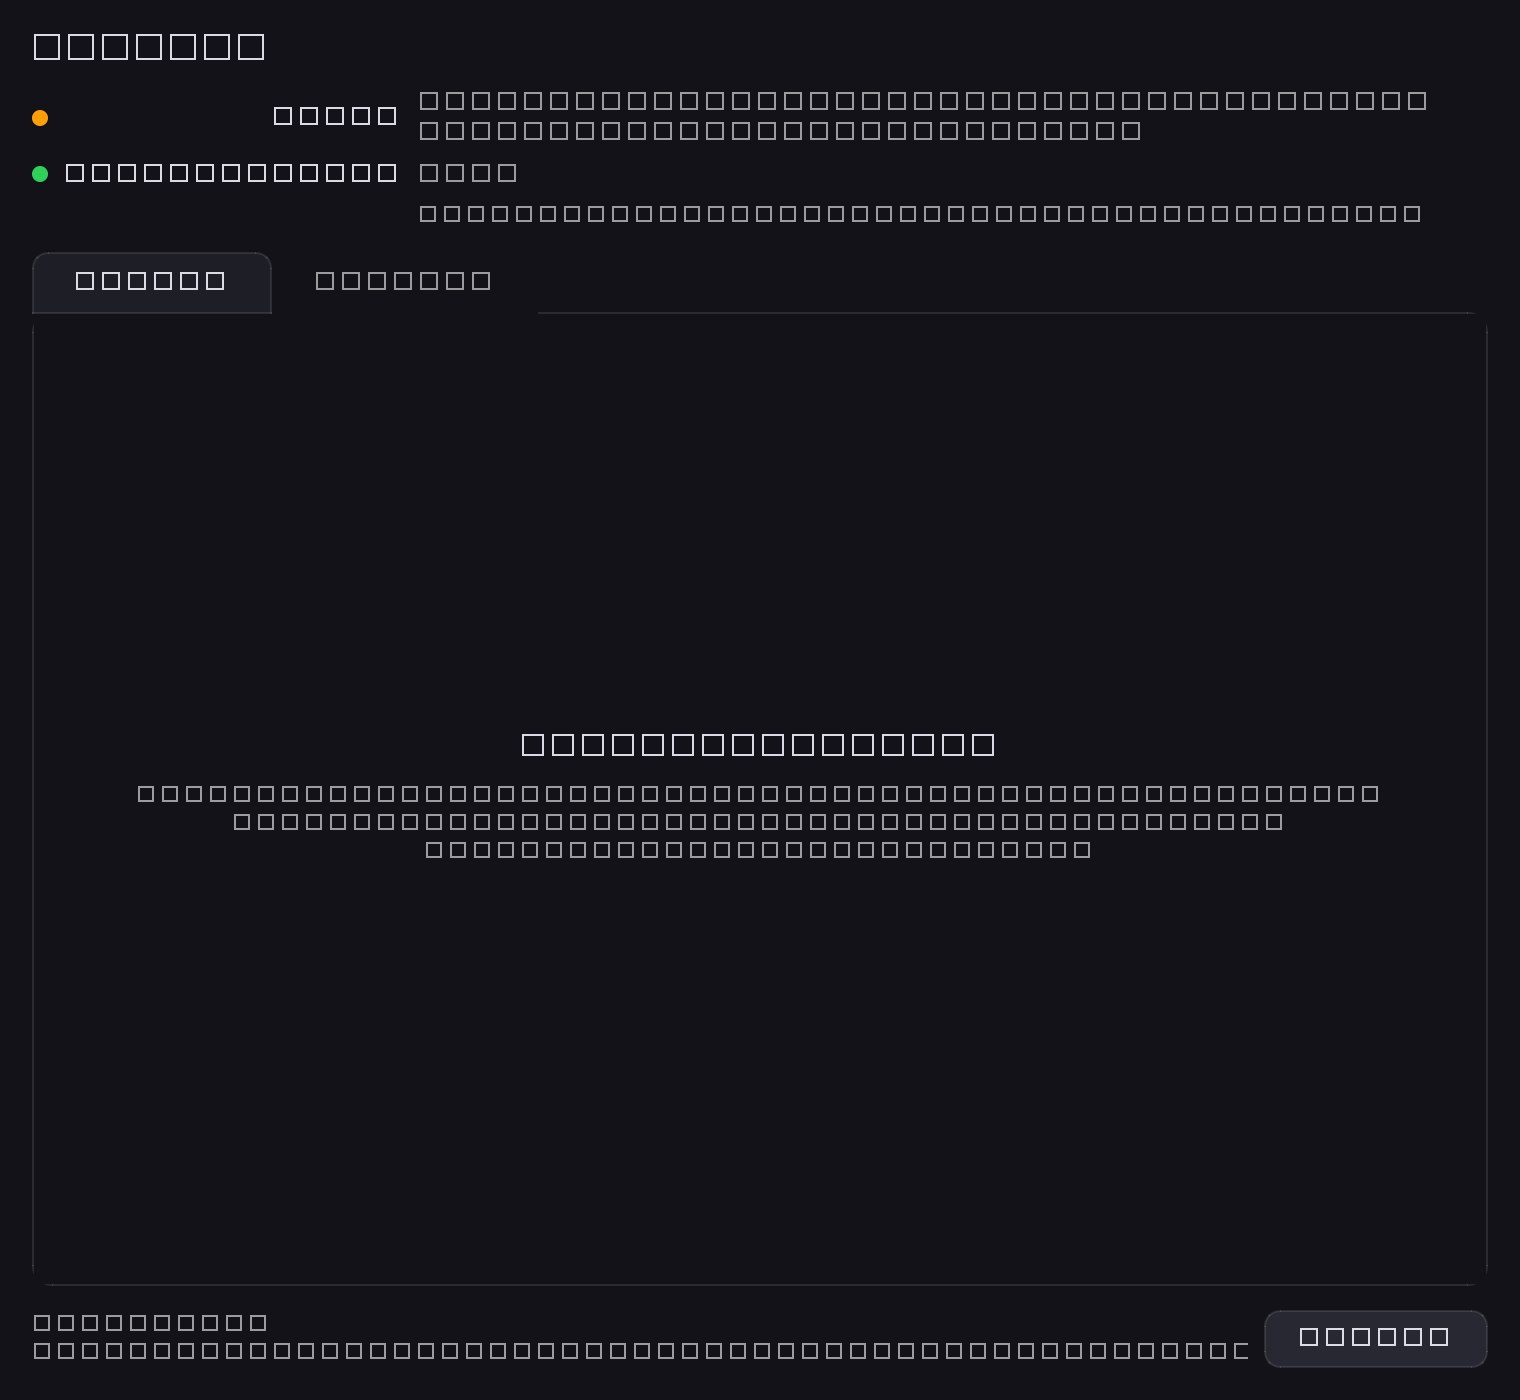
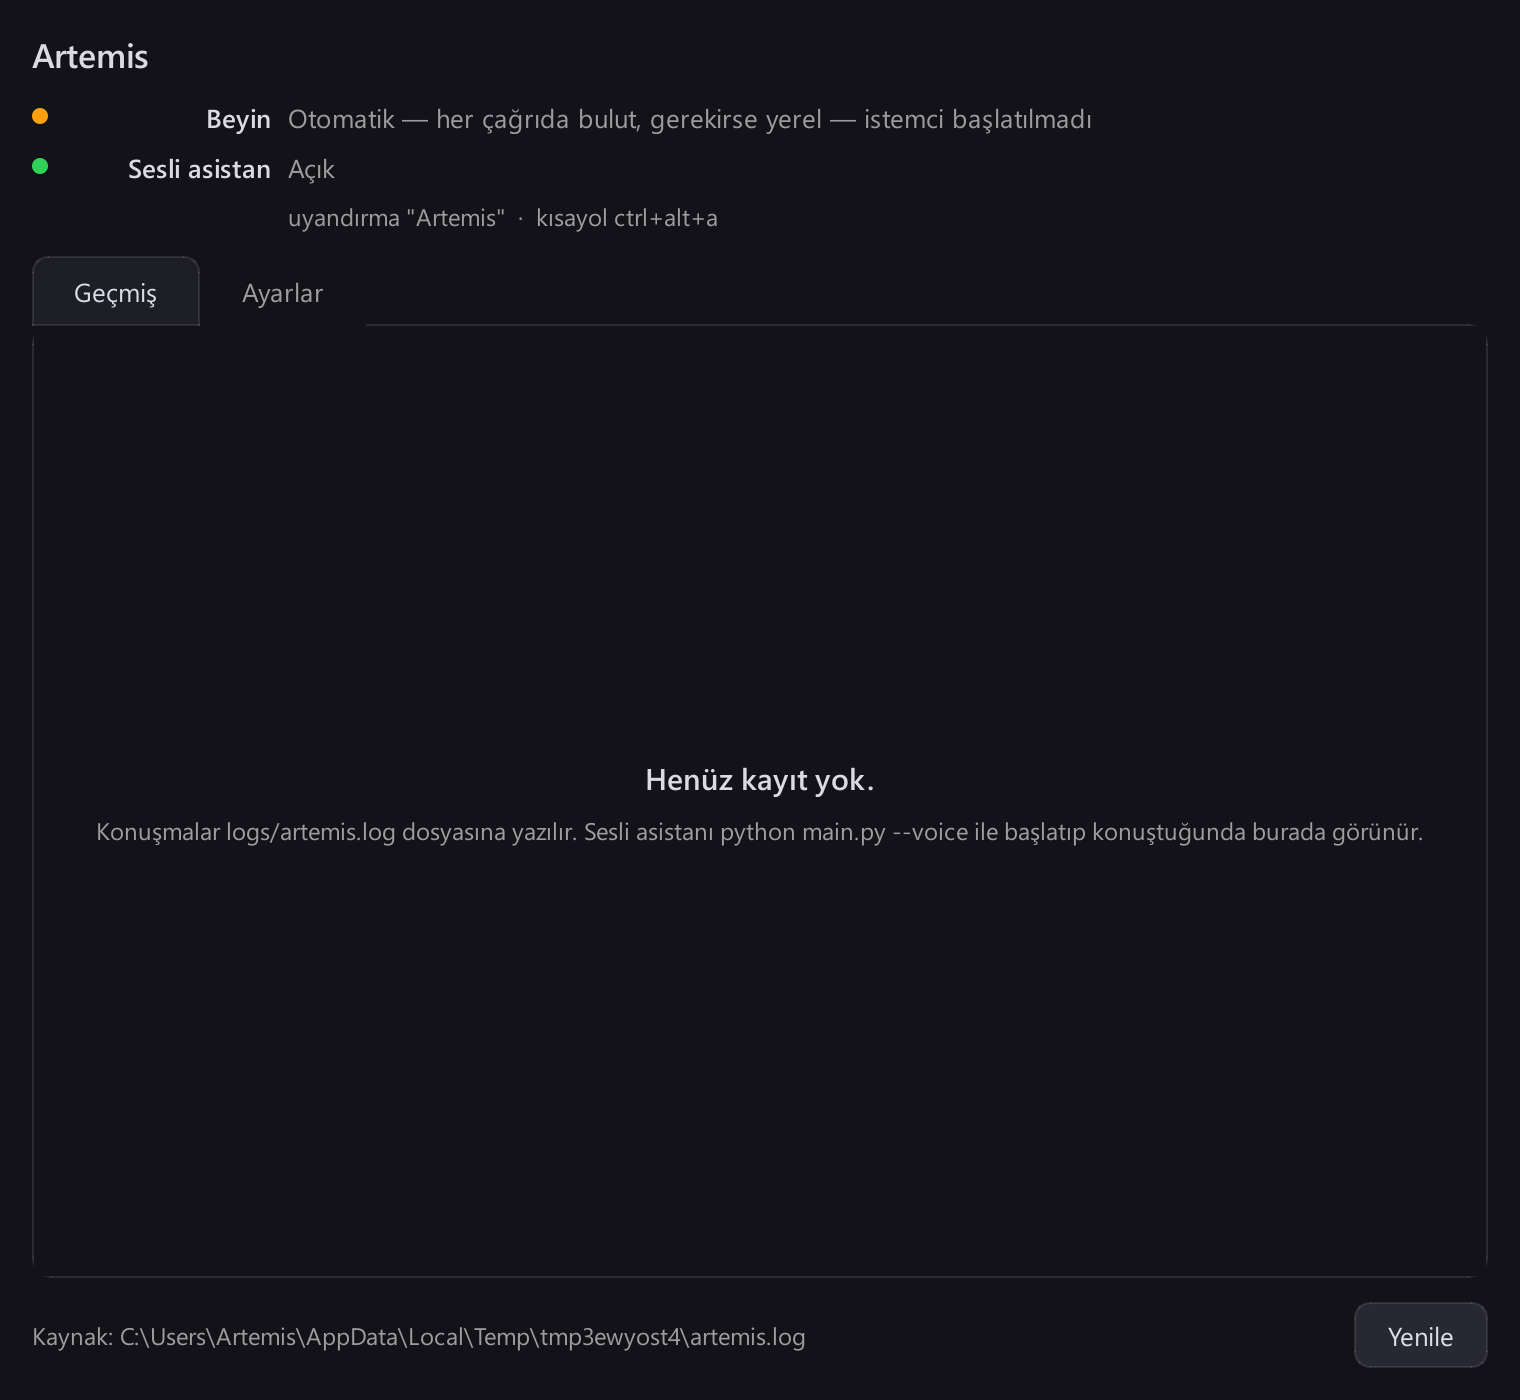
Panel ekran görüntüleri: offscreen'de fontlar bulunamıyordu, yazı yerine kutucuk çıkıyordu
QT_QPA_FONTDIR ayarlandı, üç görsel yeniden üretildi.

diff --git a/scripts/screenshot_panel.py b/scripts/screenshot_panel.py
@@ -21,6 +21,9 @@ from pathlib import Path
 
 os.environ.setdefault("QT_QPA_PLATFORM", "offscreen")
 os.environ.setdefault("QT_SCALE_FACTOR", "2")  # README'de net görünsün
+# offscreen eklentisi Windows fontlarını kendiliğinden bulmaz; yazı yerine kutucuk (□) çıkar.
+if sys.platform == "win32":
+    os.environ.setdefault("QT_QPA_FONTDIR", r"C:\Windows\Fonts")
 
 sys.path.insert(0, str(Path(__file__).resolve().parent.parent))
 
